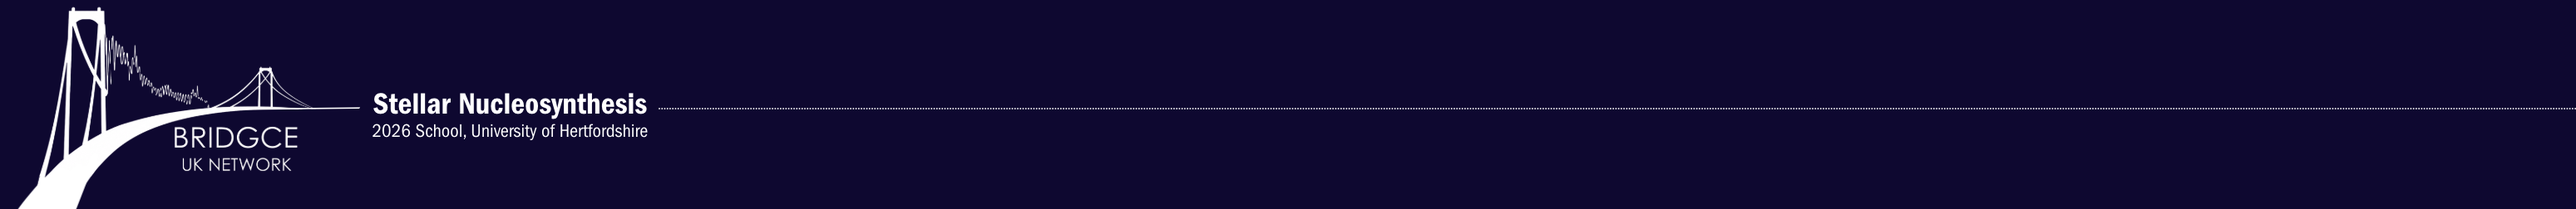
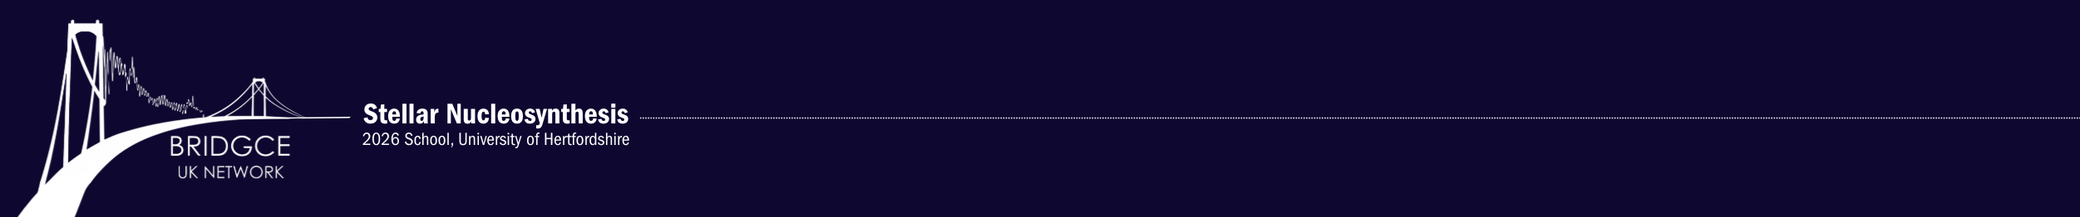
fix header

Changed region(s): [[0.0, 0.0278, 1.0, 1.0]]

diff --git a/0_pre-reading/history.md b/0_pre-reading/history.md
@@ -64,7 +64,11 @@
 | 1995                                       | **Timmes, Woosley, and Weaver**                | Galactic chemical evolution: hydrogen through zinc.                | ref |
 | 2020                                       | **Kobayashi, Karakas & Lugaro**                | The Origin of Elements from Carbon to Uranium                      | ref |
 | *Multimessenger & Modern Nucleosynthesis*  |                                                |                                                                    |           |
-| 2017                                       | **GW170817** | Neutron star mergers confirmed as major r-process sites | ref |
+| **2015** | **Ji et al. / Reticulum II** | Identified an r-process-enhanced ultra-faint dwarf galaxy.                                           | ref       |
+| **2017** | **GW170817**                 | Confirmed neutron-star mergers as a site of r-process nucleosynthesis.                               | ref       |
+| **2017** | **Kasen et al.**             | Linked the kilonova emission from GW170817 to r-process nucleosynthesis.                             | ref       |
+| **2019** | **i-process observations**   | Established observational evidence for the intermediate neutron-capture process in metal-poor stars. | ref       |
+| **2023** | **GRB 230307A / JWST**       | Detected tellurium and evidence for heavy-element nucleosynthesis in a compact-object merger.        | ref       |
 
 
 https://astro3d.org.au/wp-content/uploads/2024/08/Periodic-Table-Poster-Front-Colour-Blind-version.pdf
